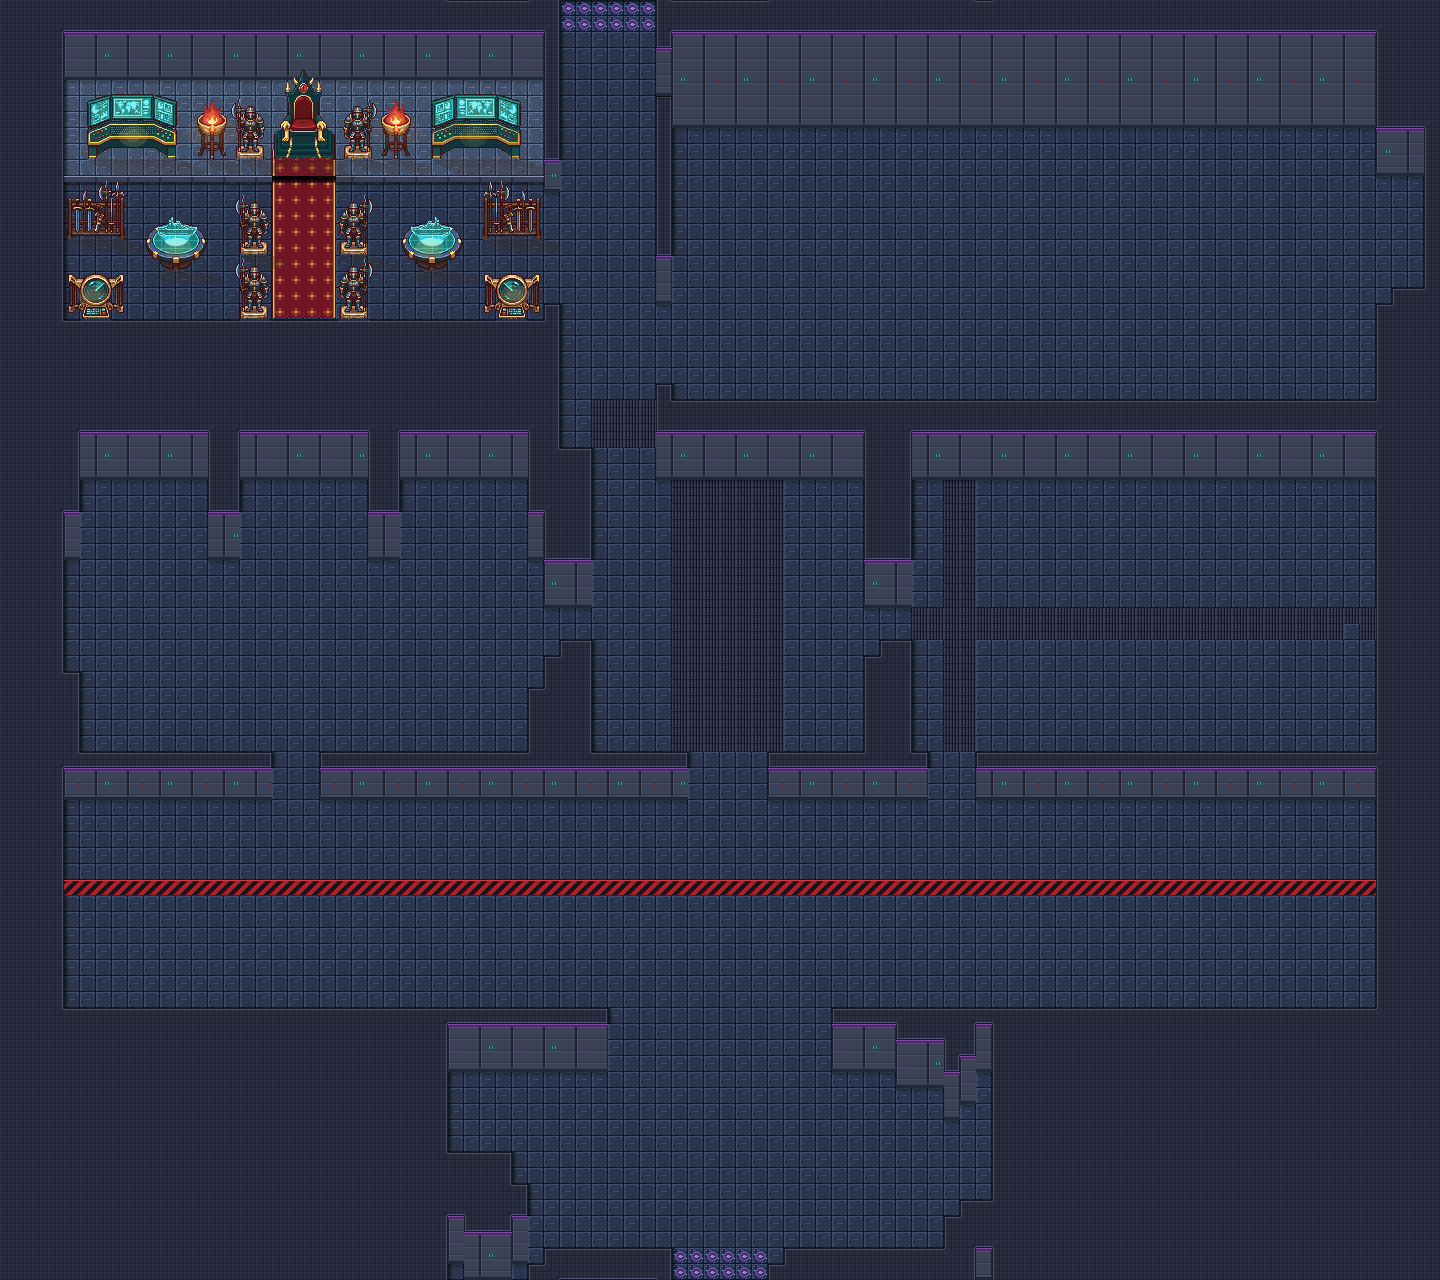
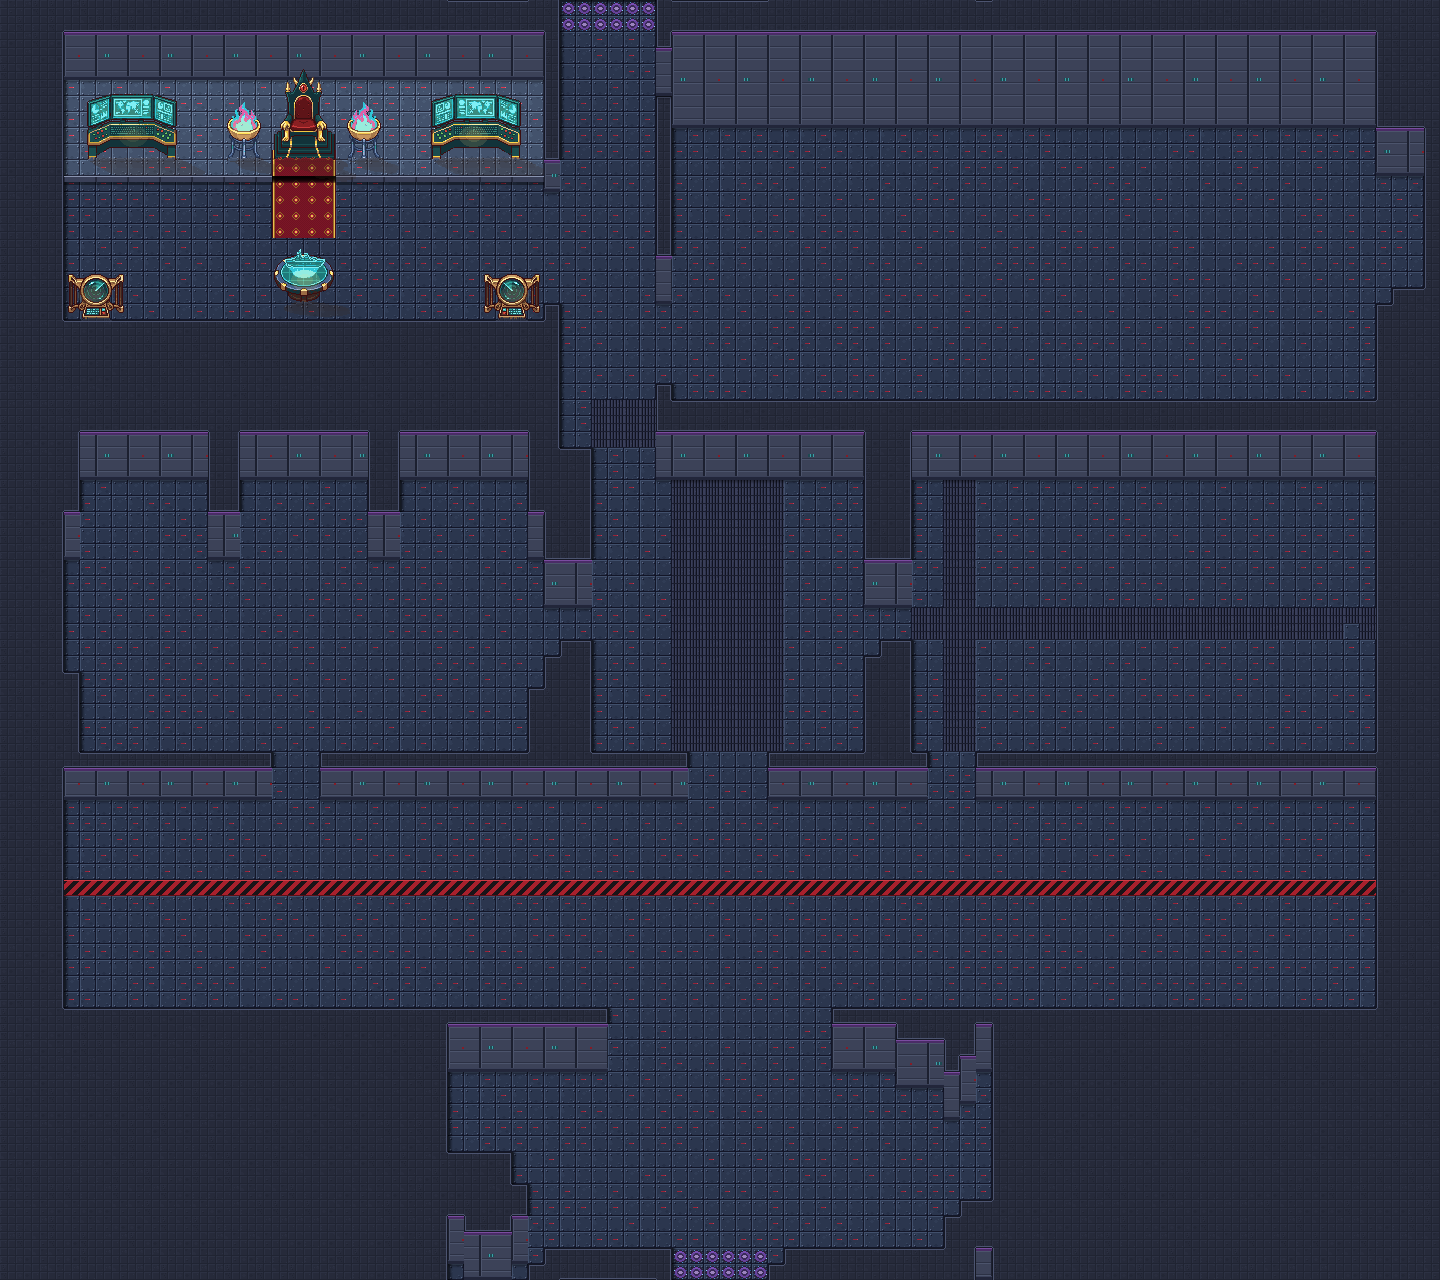
Karte 26: Thronsaal - digitale Flammen (PixelLab k26_digifeuer), Ruestungen und Waffen entfernt, ein Holo-Schiff auf der Achse, Teppich bis davor
Claude-Session: https://claude.ai/code/session_01SaoYHKhnro4LFcPJqjaPsq

Changed region(s): [[0.0312, 0.125, 0.375, 0.25], [0.125, 0.0625, 0.1875, 0.125], [0.2188, 0.0625, 0.2812, 0.125]]

diff --git a/tools/karte26_objekte.py b/tools/karte26_objekte.py
@@ -34,11 +34,9 @@ def paar(name, dx, reihe, opt=None):
 
 THRONSAAL = (                                                    # Kommandobruecke des Kaisers (eigene PixelLab-Objekte k26_thron)
     [(THRON2, 9, {'px': AX})]                                    # Kaiserthron auf der Achse, Teppich davor
-    + paar(WACHE, 56, 9) + paar(FEUERSCHALE, 92, 9, {'anim': 'feuer'})
+    + paar('digifeuer/00', 60, 9, {'anim': 'lampe'})             # Feuerschalen mit digitalen Flammen (Nutzer)
     + paar(KOMMANDO, 172, 9, {'anim': 'lampe'})                  # grosse Kommandopulte mit vier Monitoren
-    + paar(WACHE, 52, 15) + paar(WACHE, 52, 19)                  # Ehrenwache am Teppich
-    + paar(HOLO, 128, 16, {'anim': 'lampe'})                     # Holo-Kartentische
-    + paar(WAFFEN, 208, 14)                                      # Waffenstaender an den Seitenwaenden
+    + [(HOLO, 18, {'px': AX, 'anim': 'lampe'})]                  # ein Holo-Schiff unten auf der Achse (Nutzer)
     + paar(RADAR, 208, 19, {'anim': 'lampe'})
 )
 

diff --git a/tools/pixellab_objekte.py b/tools/pixellab_objekte.py
@@ -1854,6 +1854,10 @@ OBJEKTGRUPPEN_K21 = {   # Karte 21 (Digi-Egg Valley), Stil wie Karte 20 / Karte 
         'armored imperial guard statue, dark steel plate armor with gold trim and a glowing red visor, holding a tall halberd, on a small plinth, ' + FR14,
         'tall gold brazier bowl on a black stand with burning crimson flames, ' + FR14,
     ]},
+    'k26_digifeuer': {'size': 64, 'items': [
+        'tall gold brazier bowl on a black stand with burning digital flames made of glowing cyan and magenta pixel squares '
+        'and data bits rising up, ' + FR14,
+    ]},
     'k24_schrein': {'size': 64, 'items': [
         'dark emperor throne made of jagged black obsidian crystal spikes with deep purple and crimson highlights, a high '
         'pointed back, standing on a small stepped dark stone dais, ' + FR14,

diff --git a/tools/karte26_bauen.py b/tools/karte26_bauen.py
@@ -120,7 +120,7 @@ def podest(a, pm):
                 a[yy, x] = (a[yy, x] * 0.6).astype(np.uint8)
 
 
-TEPPICHE = [(272, 150, 336, 318)]       # Thronsaal: x 272..336 (4 Kacheln, Mitte 304), vom Podest bis zur Suedwand
+TEPPICHE = [(272, 150, 336, 238)]       # Thronsaal: x 272..336 (4 Kacheln, Mitte 304), vom Podest bis vor den Holo-Tisch
 
 
 def bauen(frame=None, speichern=True):
